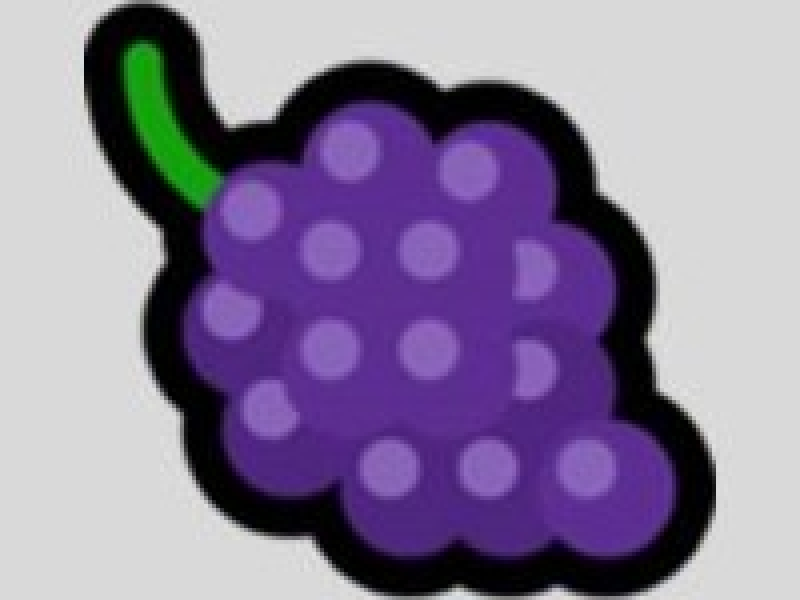
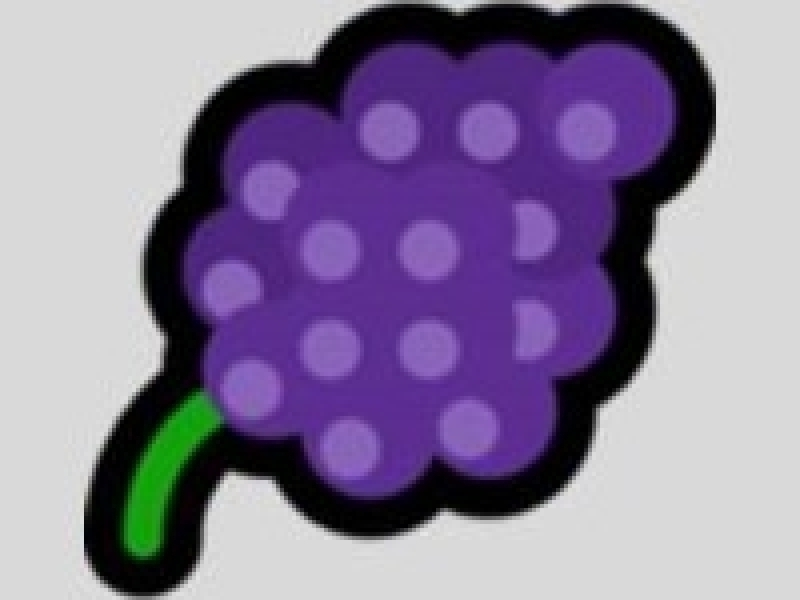
update the photo transformation - allow multiple photo tranformations

diff --git a/app/product/update.php b/app/product/update.php
@@ -60,6 +60,18 @@ $gallery_photos = $pdo->prepare("SELECT * FROM product_photo WHERE product_id = 
 $gallery_photos->execute([$id]);
 $gallery_photos = $gallery_photos->fetchAll();
 
+// Photo editor: steps through the main photo (always slot 0, even if empty
+// so the upload box stays reachable) followed by every gallery photo.
+$all_photos = [(object) ['type' => 'main', 'gallery_id' => null, 'photo' => $photo]];
+foreach ($gallery_photos as $gp) {
+    $all_photos[] = (object) ['type' => 'gallery', 'gallery_id' => $gp->id, 'photo' => $gp->photo];
+}
+$photo_count = count($all_photos);
+
+$photo_idx = (int) get('photo_idx', 0);
+$photo_idx = max(0, min($photo_idx, $photo_count - 1));
+$current_photo = $all_photos[$photo_idx];
+
 $categories = $pdo->query("SELECT id, name FROM category ORDER BY name")
                    ->fetchAll(PDO::FETCH_KEY_PAIR);
 
@@ -183,24 +195,41 @@ require '../_head.php';
             <td style="vertical-align:top;">Photo</td>
             <td>
                 <?= err('photo') ?>
-                <div class="photo-drop" tabindex="0" role="button" aria-label="Upload product photo">
-                    <img src="<?= $photo ? '/photos/' . h($photo) : '' ?>" <?= $photo ? '' : 'style="display:none"' ?>>
-                    <div class="photo-drop-hint" <?= $photo ? 'style="display:none"' : '' ?>>Drag &amp; drop a photo here, or click to browse<br><small>Max 3MB</small></div>
-                    <?= html_file('photo', 'image/*', "style='display:none'") ?>
-                    <button type="button" class="photo-drop-clear">✕ Clear selection</button>
-                </div>
-                <p class="hint">Leave empty to keep the current photo.</p>
 
-                <?php if ($photo): ?>
-                <div style="display:grid; grid-template-columns:repeat(2, max-content); gap:6px; margin-top:6px;">
+                <?php if ($current_photo->type == 'main'): ?>
+                    <div class="photo-drop" tabindex="0" role="button" aria-label="Upload product photo">
+                        <img src="<?= $photo ? '/photos/' . h($photo) : '' ?>" <?= $photo ? '' : 'style="display:none"' ?>>
+                        <div class="photo-drop-hint" <?= $photo ? 'style="display:none"' : '' ?>>Drag &amp; drop a photo here, or click to browse<br><small>Max 3MB</small></div>
+                        <?= html_file('photo', 'image/*', "style='display:none'") ?>
+                        <button type="button" class="photo-drop-clear">✕ Clear selection</button>
+                    </div>
+                    <p class="hint">Leave empty to keep the current photo.</p>
+                <?php else: ?>
+                    <img src="/photos/<?= h($current_photo->photo) ?>" width="160" height="160" style="object-fit:cover; border:1px solid var(--border); display:block;">
+                    <p class="hint"><a href="/product/photo-delete.php?id=<?= $current_photo->gallery_id ?>&product_id=<?= $id ?>"
+                          onclick="return confirm('Remove this photo?')">Remove this photo</a></p>
+                <?php endif; ?>
+
+                <?php if ($current_photo->photo): ?>
+                <div style="display:grid; grid-template-columns:repeat(2, max-content); gap:6px; margin-top:8px;">
                     <button type="button" class="btn-outline" style="padding:4px 10px; font-size:0.85em;"
-                            onclick="submitPhotoTransform('rotate_left')">⟲ Rotate Left</button>
+                            onclick="submitPhotoTransform('rotate_left', <?= $current_photo->gallery_id ?? 'null' ?>)">⟲ Rotate Left</button>
                     <button type="button" class="btn-outline" style="padding:4px 10px; font-size:0.85em;"
-                            onclick="submitPhotoTransform('rotate_right')">⟳ Rotate Right</button>
+                            onclick="submitPhotoTransform('rotate_right', <?= $current_photo->gallery_id ?? 'null' ?>)">⟳ Rotate Right</button>
                     <button type="button" class="btn-outline" style="padding:4px 10px; font-size:0.85em;"
-                            onclick="submitPhotoTransform('flip_horizontal')">⇋ Flip Horizontal</button>
+                            onclick="submitPhotoTransform('flip_horizontal', <?= $current_photo->gallery_id ?? 'null' ?>)">⇋ Flip Horizontal</button>
                     <button type="button" class="btn-outline" style="padding:4px 10px; font-size:0.85em;"
-                            onclick="submitPhotoTransform('flip_vertical')">⇅ Flip Vertical</button>
+                            onclick="submitPhotoTransform('flip_vertical', <?= $current_photo->gallery_id ?? 'null' ?>)">⇅ Flip Vertical</button>
+                </div>
+                <?php endif; ?>
+
+                <?php if ($photo_count > 1): ?>
+                <div style="margin-top:10px; display:flex; align-items:center; gap:10px;">
+                    <a class="btn-outline" style="padding:4px 10px; font-size:0.85em; visibility:<?= $photo_idx > 0 ? 'visible' : 'hidden' ?>;"
+                       href="/product/update.php?id=<?= $id ?>&photo_idx=<?= $photo_idx - 1 ?>">‹ Previous</a>
+                    <span class="hint" style="margin:0;">Photo <?= $photo_idx + 1 ?> of <?= $photo_count ?> (<?= $current_photo->type == 'main' ? 'main' : 'gallery' ?>)</span>
+                    <a class="btn-outline" style="padding:4px 10px; font-size:0.85em; visibility:<?= $photo_idx < $photo_count - 1 ? 'visible' : 'hidden' ?>;"
+                       href="/product/update.php?id=<?= $id ?>&photo_idx=<?= $photo_idx + 1 ?>">Next ›</a>
                 </div>
                 <?php endif; ?>
             </td>
@@ -208,17 +237,6 @@ require '../_head.php';
         <tr>
             <td style="vertical-align:top; padding-top:16px;">Additional Photos</td>
             <td style="padding-top:16px;">
-                <?php if ($gallery_photos): ?>
-                <div style="display:flex; gap:8px; flex-wrap:wrap; margin-bottom:8px;">
-                    <?php foreach ($gallery_photos as $gp): ?>
-                    <div style="text-align:center;">
-                        <img src="/photos/<?= h($gp->photo) ?>" width="80" height="60"><br>
-                        <a href="/product/photo-delete.php?id=<?= $gp->id ?>&product_id=<?= $id ?>"
-                           onclick="return confirm('Remove this photo?')">Remove</a>
-                    </div>
-                    <?php endforeach; ?>
-                </div>
-                <?php endif; ?>
                 <input type="file" id="gallery" name="gallery[]" accept="image/*" multiple>
                 <p class="hint">Add more gallery photos (optional, max 3MB each).</p>
             </td>
@@ -234,7 +252,7 @@ require '../_head.php';
         <tr>
             <td>Price</td>
             <td>
-                <div style="display:flex; align-items:center; gap:6px;">
+                <div class="input-prefix">
                     <span>RM</span>
                     <?= html_number('price', 0.01, '', 0.01) ?>
                 </div>
@@ -334,12 +352,15 @@ require '../_head.php';
 
 <form method="post" action="/product/photo-transform.php" id="photo-transform-form" style="display:none;">
     <input type="hidden" name="id" value="<?= $id ?>">
+    <input type="hidden" name="photo_idx" value="<?= $photo_idx ?>">
+    <input type="hidden" name="gallery_id" id="photo-transform-gallery-id" value="">
     <input type="hidden" name="action" id="photo-transform-action" value="">
 </form>
 
 <script>
-    function submitPhotoTransform(action) {
+    function submitPhotoTransform(action, galleryId) {
         document.getElementById('photo-transform-action').value = action;
+        document.getElementById('photo-transform-gallery-id').value = galleryId || '';
         document.getElementById('photo-transform-form').submit();
     }
 </script>

diff --git a/app/product/photo-transform.php b/app/product/photo-transform.php
@@ -4,20 +4,38 @@
 
 $id = post('id');
 $action = post('action');
+$gallery_id = post('gallery_id');
+$photo_idx = post('photo_idx', 0);
+$back_url = '/product/update.php?id=' . $id . '&photo_idx=' . $photo_idx;
 
-$stm = $pdo->prepare("SELECT * FROM product WHERE id = ?");
-$stm->execute([$id]);
-$product = $stm->fetch();
+if ($gallery_id) {
+    $stm = $pdo->prepare("SELECT * FROM product_photo WHERE id = ? AND product_id = ?");
+    $stm->execute([$gallery_id, $id]);
+    $gallery_photo = $stm->fetch();
 
-if (!$product || !$product->photo) {
-    temp('info', 'Product or photo not found.');
-    redirect('/product/update.php?id=' . $id);
+    if (!$gallery_photo) {
+        temp('info', 'Photo not found.');
+        redirect($back_url);
+    }
+
+    $photo_filename = $gallery_photo->photo;
+} else {
+    $stm = $pdo->prepare("SELECT * FROM product WHERE id = ?");
+    $stm->execute([$id]);
+    $product = $stm->fetch();
+
+    if (!$product || !$product->photo) {
+        temp('info', 'Product or photo not found.');
+        redirect($back_url);
+    }
+
+    $photo_filename = $product->photo;
 }
 
-$path = root("photos/{$product->photo}");
+$path = root("photos/$photo_filename");
 if (!file_exists($path)) {
     temp('info', 'Photo file is missing.');
-    redirect('/product/update.php?id=' . $id);
+    redirect($back_url);
 }
 
 require_once root('lib/SimpleImage.php');
@@ -39,13 +57,15 @@ switch ($action) {
         break;
     default:
         temp('info', 'Unknown action.');
-        redirect('/product/update.php?id=' . $id);
+        redirect($back_url);
 }
 
 $img->toFile($path, 'image/jpeg');
 
-// Keep the SESSION-held filename in sync for the edit form (Practical 6 pattern)
-$_SESSION['edit_photo'] = $product->photo;
+if (!$gallery_id) {
+    
+    $_SESSION['edit_photo'] = $product->photo;
+}
 
 temp('info', 'Photo updated.');
-redirect('/product/update.php?id=' . $id);
+redirect($back_url);
